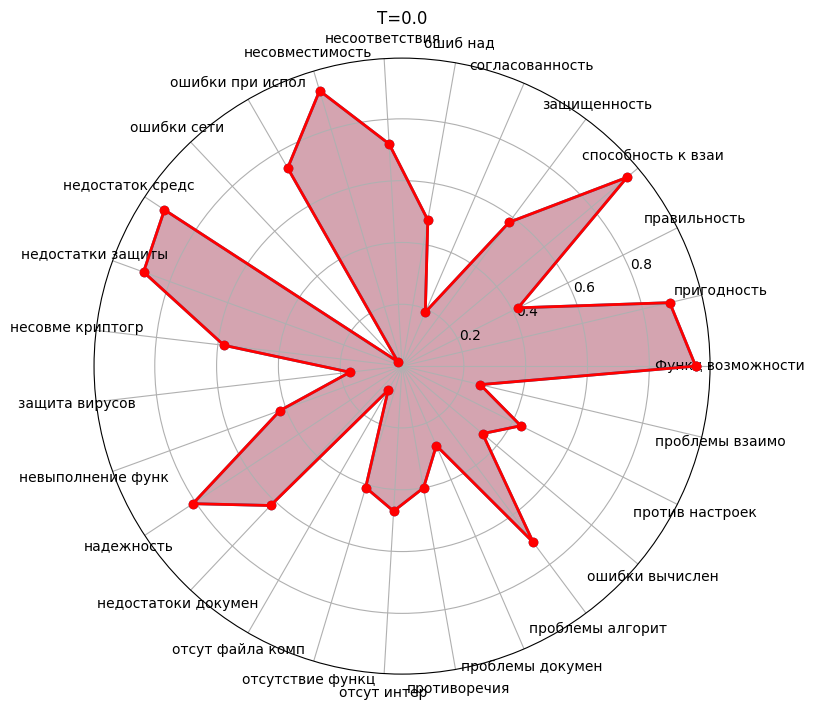
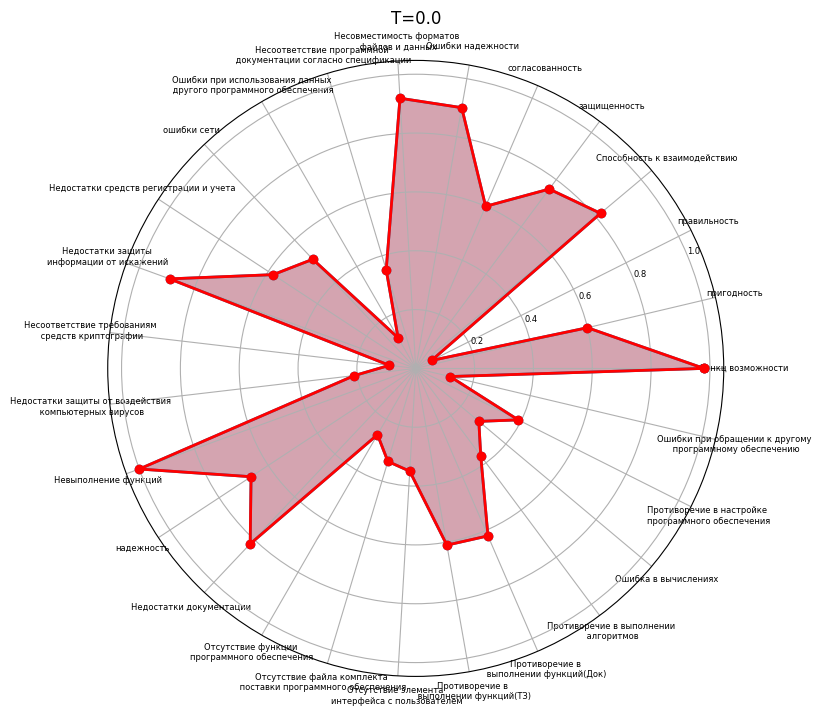
hope last commit

diff --git a/lab_ui.py b/lab_ui.py
@@ -1,5 +1,5 @@
 from PyQt5 import QtCore, QtGui, QtWidgets
-from PyQt5.QtGui import QPixmap
+from PyQt5.QtGui import QPixmap, QFont
 from PyQt5.QtWidgets import QMainWindow, QLabel, QVBoxLayout, QWidget
 
 import service as s
@@ -35,85 +35,112 @@ class Ui_MainWindow(object):
 
         self.label = QtWidgets.QLabel(self.centralwidget)
 
-        self.label.setGeometry(QtCore.QRect(10, 10, 171, 16))
+        self.label.setGeometry(QtCore.QRect(10, 10, 171, 20))
+        self.label.setFont(QFont('Arial', 9))
         self.label.setObjectName("label")
         self.label_2 = QtWidgets.QLabel(self.centralwidget)
         self.label_2.setGeometry(QtCore.QRect(10, 30, 171, 16))
+        self.label_2.setFont(QFont('Arial', 9))
         self.label_2.setObjectName("label_2")
         self.label_3 = QtWidgets.QLabel(self.centralwidget)
-        self.label_3.setGeometry(QtCore.QRect(10, 50, 171, 16))
+        self.label_3.setGeometry(QtCore.QRect(10, 50, 171, 20))
+        self.label_3.setFont(QFont('Arial', 9))
         self.label_3.setObjectName("label_3")
         self.label_4 = QtWidgets.QLabel(self.centralwidget)
-        self.label_4.setGeometry(QtCore.QRect(10, 70, 171, 16))
+        self.label_4.setGeometry(QtCore.QRect(10, 70, 171, 20))
+        self.label_4.setFont(QFont('Arial', 9))
         self.label_4.setObjectName("label_4")
         self.label_5 = QtWidgets.QLabel(self.centralwidget)
-        self.label_5.setGeometry(QtCore.QRect(10, 90, 171, 16))
+        self.label_5.setGeometry(QtCore.QRect(10, 90, 171, 20))
+        self.label_5.setFont(QFont('Arial', 9))
         self.label_5.setObjectName("label_5")
         self.label_6 = QtWidgets.QLabel(self.centralwidget)
-        self.label_6.setGeometry(QtCore.QRect(10, 110, 171, 16))
+        self.label_6.setGeometry(QtCore.QRect(10, 110, 171, 20))
+        self.label_6.setFont(QFont('Arial', 9))
         self.label_6.setObjectName("label_6")
         self.label_7 = QtWidgets.QLabel(self.centralwidget)
-        self.label_7.setGeometry(QtCore.QRect(10, 130, 171, 16))
+        self.label_7.setGeometry(QtCore.QRect(10, 130, 171, 20))
+        self.label_7.setFont(QFont('Arial', 9))
         self.label_7.setObjectName("label_7")
         self.label_8 = QtWidgets.QLabel(self.centralwidget)
-        self.label_8.setGeometry(QtCore.QRect(10, 170, 171, 16))
+        self.label_8.setGeometry(QtCore.QRect(10, 170, 171, 20))
+        self.label_8.setFont(QFont('Arial', 9))
         self.label_8.setObjectName("label_8")
         self.label_9 = QtWidgets.QLabel(self.centralwidget)
-        self.label_9.setGeometry(QtCore.QRect(10, 150, 171, 16))
+        self.label_9.setGeometry(QtCore.QRect(10, 150, 171, 20))
+        self.label_9.setFont(QFont('Arial', 9))
         self.label_9.setObjectName("label_9")
         self.label_10 = QtWidgets.QLabel(self.centralwidget)
-        self.label_10.setGeometry(QtCore.QRect(10, 190, 171, 16))
+        self.label_10.setGeometry(QtCore.QRect(10, 190, 171, 20))
+        self.label_10.setFont(QFont('Arial', 9))
         self.label_10.setObjectName("label_10")
         self.label_11 = QtWidgets.QLabel(self.centralwidget)
-        self.label_11.setGeometry(QtCore.QRect(10, 230, 171, 16))
+        self.label_11.setGeometry(QtCore.QRect(10, 230, 171, 20))
+        self.label_11.setFont(QFont('Arial', 9))
         self.label_11.setObjectName("label_11")
         self.label_12 = QtWidgets.QLabel(self.centralwidget)
-        self.label_12.setGeometry(QtCore.QRect(10, 210, 171, 16))
+        self.label_12.setGeometry(QtCore.QRect(10, 210, 171, 20))
+        self.label_12.setFont(QFont('Arial', 9))
         self.label_12.setObjectName("label_12")
         self.label_13 = QtWidgets.QLabel(self.centralwidget)
-        self.label_13.setGeometry(QtCore.QRect(10, 250, 171, 16))
+        self.label_13.setGeometry(QtCore.QRect(10, 250, 171, 20))
+        self.label_13.setFont(QFont('Arial', 9))
         self.label_13.setObjectName("label_13")
         self.label_14 = QtWidgets.QLabel(self.centralwidget)
-        self.label_14.setGeometry(QtCore.QRect(10, 270, 171, 16))
+        self.label_14.setGeometry(QtCore.QRect(10, 270, 171, 20))
+        self.label_14.setFont(QFont('Arial', 9))
         self.label_14.setObjectName("label_14")
         self.label_15 = QtWidgets.QLabel(self.centralwidget)
-        self.label_15.setGeometry(QtCore.QRect(10, 290, 171, 16))
+        self.label_15.setGeometry(QtCore.QRect(10, 290, 171, 20))
+        self.label_15.setFont(QFont('Arial', 9))
         self.label_15.setObjectName("label_15")
         self.label_16 = QtWidgets.QLabel(self.centralwidget)
-        self.label_16.setGeometry(QtCore.QRect(10, 310, 171, 16))
+        self.label_16.setGeometry(QtCore.QRect(10, 310, 171, 20))
+        self.label_16.setFont(QFont('Arial', 9))
         self.label_16.setObjectName("label_16")
         self.label_17 = QtWidgets.QLabel(self.centralwidget)
-        self.label_17.setGeometry(QtCore.QRect(10, 330, 171, 16))
+        self.label_17.setGeometry(QtCore.QRect(10, 330, 171, 20))
+        self.label_17.setFont(QFont('Arial', 9))
         self.label_17.setObjectName("label_17")
         self.label_18 = QtWidgets.QLabel(self.centralwidget)
-        self.label_18.setGeometry(QtCore.QRect(10, 350, 171, 16))
+        self.label_18.setGeometry(QtCore.QRect(10, 350, 171, 20))
+        self.label_18.setFont(QFont('Arial', 9))
         self.label_18.setObjectName("label_18")
         self.label_19 = QtWidgets.QLabel(self.centralwidget)
-        self.label_19.setGeometry(QtCore.QRect(10, 390, 171, 16))
+        self.label_19.setGeometry(QtCore.QRect(10, 390, 171, 20))
+        self.label_19.setFont(QFont('Arial', 9))
         self.label_19.setObjectName("label_19")
         self.label_20 = QtWidgets.QLabel(self.centralwidget)
-        self.label_20.setGeometry(QtCore.QRect(10, 370, 171, 16))
+        self.label_20.setGeometry(QtCore.QRect(10, 370, 171, 20))
+        self.label_20.setFont(QFont('Arial', 9))
         self.label_20.setObjectName("label_20")
         self.label_21 = QtWidgets.QLabel(self.centralwidget)
-        self.label_21.setGeometry(QtCore.QRect(10, 410, 171, 16))
+        self.label_21.setGeometry(QtCore.QRect(10, 410, 171, 20))
+        self.label_21.setFont(QFont('Arial', 9))
         self.label_21.setObjectName("label_21")
         self.label_22 = QtWidgets.QLabel(self.centralwidget)
-        self.label_22.setGeometry(QtCore.QRect(10, 430, 171, 16))
+        self.label_22.setGeometry(QtCore.QRect(10, 430, 171, 20))
+        self.label_22.setFont(QFont('Arial', 9))
         self.label_22.setObjectName("label_22")
         self.label_23 = QtWidgets.QLabel(self.centralwidget)
-        self.label_23.setGeometry(QtCore.QRect(10, 450, 171, 16))
+        self.label_23.setGeometry(QtCore.QRect(10, 450, 171, 20))
+        self.label_23.setFont(QFont('Arial', 9))
         self.label_23.setObjectName("label_23")
         self.label_24 = QtWidgets.QLabel(self.centralwidget)
-        self.label_24.setGeometry(QtCore.QRect(10, 470, 171, 16))
+        self.label_24.setGeometry(QtCore.QRect(10, 470, 171, 20))
+        self.label_24.setFont(QFont('Arial', 9))
         self.label_24.setObjectName("label_24")
         self.label_25 = QtWidgets.QLabel(self.centralwidget)
-        self.label_25.setGeometry(QtCore.QRect(10, 490, 171, 16))
+        self.label_25.setGeometry(QtCore.QRect(10, 490, 171, 20))
+        self.label_25.setFont(QFont('Arial', 9))
         self.label_25.setObjectName("label_25")
         self.label_26 = QtWidgets.QLabel(self.centralwidget)
-        self.label_26.setGeometry(QtCore.QRect(10, 530, 171, 16))
+        self.label_26.setGeometry(QtCore.QRect(10, 530, 171, 20))
+        self.label_26.setFont(QFont('Arial', 9))
         self.label_26.setObjectName("label_26")
         self.label_27 = QtWidgets.QLabel(self.centralwidget)
-        self.label_27.setGeometry(QtCore.QRect(10, 510, 171, 16))
+        self.label_27.setGeometry(QtCore.QRect(10, 510, 171, 20))
+        self.label_27.setFont(QFont('Arial', 9))
         self.label_27.setObjectName("label_27")
         self.doubleSpinBox = QtWidgets.QDoubleSpinBox(self.centralwidget)
         self.doubleSpinBox.setGeometry(QtCore.QRect(170, 10, 68, 24))
@@ -474,30 +501,30 @@ class Ui_MainWindow(object):
         self.label.setText(_translate("MainWindow", "u1 - Функц Возможности"))
         self.label_2.setText(_translate("MainWindow", "u7 - Пригодность"))
         self.label_3.setText(_translate("MainWindow", "u8 - Правильность"))
-        self.label_4.setText(_translate("MainWindow", "u9 - Способность к Взаи"))
+        self.label_4.setText(_translate("MainWindow", "u9 - Способность к взаимодействию"))
         self.label_5.setText(_translate("MainWindow", "u10 - Защищенность"))
-        self.label_6.setText(_translate("MainWindow", "u11 - Согласованность"))
-        self.label_7.setText(_translate("MainWindow", "u57 - Ошибки Надежн"))
-        self.label_8.setText(_translate("MainWindow", "u48 - Несовместимость"))
-        self.label_9.setText(_translate("MainWindow", "u35 - Нессответствия"))
-        self.label_10.setText(_translate("MainWindow", "u47 - Ошибки при испол"))
-        self.label_11.setText(_translate("MainWindow", "u50 - Недостаток средс"))
-        self.label_12.setText(_translate("MainWindow", "u46 - Ошибки Сети"))
-        self.label_13.setText(_translate("MainWindow", "u51 - Недостатки Защиты"))
-        self.label_14.setText(_translate("MainWindow", "u52 - Несовме Криптогр"))
-        self.label_15.setText(_translate("MainWindow", "u53 -Защита Вирусов"))
-        self.label_16.setText(_translate("MainWindow", "u34 - Невыполнение функ"))
+        self.label_6.setText(_translate("MainWindow", "u11 - Согласованность системы в целом"))
+        self.label_7.setText(_translate("MainWindow", "u57 - Ошибки надежности"))
+        self.label_8.setText(_translate("MainWindow", "u48 - Несовместимость форматов\n файлов и данных"))
+        self.label_9.setText(_translate("MainWindow", "u35 - Несоответствие программной\n документации согласно спецификации"))
+        self.label_10.setText(_translate("MainWindow", "u47 - Ошибки при использования данных\n другого программного обеспечения"))
+        self.label_11.setText(_translate("MainWindow", "u50 - Недостатки средств регистрации и учета"))
+        self.label_12.setText(_translate("MainWindow", "u46 - Ошибки сети"))
+        self.label_13.setText(_translate("MainWindow", "u51 - Недостатки защиты \nинформации от искажений"))
+        self.label_14.setText(_translate("MainWindow", "u52 - Несоответствие требованиям\n средств криптографии"))
+        self.label_15.setText(_translate("MainWindow", "u53 - Недостатки защиты от воздействия\n компьютерных вирусов"))
+        self.label_16.setText(_translate("MainWindow", "u34 - Невыполнение функций"))
         self.label_17.setText(_translate("MainWindow", "u2 - Надежность"))
-        self.label_18.setText(_translate("MainWindow", "u36 - Недостки Докумен"))
-        self.label_19.setText(_translate("MainWindow", "u38 - Отсутствие функц"))
-        self.label_20.setText(_translate("MainWindow", "u37 - Отсут файла комп"))
-        self.label_21.setText(_translate("MainWindow", "u39 - Отссутсвие интер"))
-        self.label_22.setText(_translate("MainWindow", "u40 - Противоречия"))
-        self.label_23.setText(_translate("MainWindow", "u41 - Проблемы Докумен"))
-        self.label_24.setText(_translate("MainWindow", "u42 - Проблемы Алгорит"))
-        self.label_25.setText(_translate("MainWindow", "u43 - Ошибки Вычислен"))
-        self.label_26.setText(_translate("MainWindow", "u45 - Проблемы взаимо"))
-        self.label_27.setText(_translate("MainWindow", "u44 - Против настроек"))
+        self.label_18.setText(_translate("MainWindow", "u36 - Недостатки документации"))
+        self.label_19.setText(_translate("MainWindow", "u38 - Отсутствие функции \nпрограммного обеспечения"))
+        self.label_20.setText(_translate("MainWindow", "u37 - Отсутствие файла комплекта\n поставки программного обеспечения"))
+        self.label_21.setText(_translate("MainWindow", "u39 - Отсутствие элемента \nинтерфейса с пользователем"))
+        self.label_22.setText(_translate("MainWindow", "u40 - Противоречие в\n выполнении функций(Док)"))
+        self.label_23.setText(_translate("MainWindow", "u41 - Противоречие в\n выполнении функций(ТЗ)"))
+        self.label_24.setText(_translate("MainWindow", "u42 - Противоречие в выполнении\n алгоритмов"))
+        self.label_25.setText(_translate("MainWindow", "u43 - Ошибка в вычислениях"))
+        self.label_26.setText(_translate("MainWindow", "u45 - Ошибки при обращении к другому\n программному обеспечению"))
+        self.label_27.setText(_translate("MainWindow", "u44 - Противоречие в настройке \nпрограммного обеспечения"))
         self.label_28.setText(_translate("MainWindow", "Уравнения"))
         self.label_29.setText(_translate("MainWindow", "="))
         self.label_F1.setText('F')

diff --git a/service.py b/service.py
@@ -3,7 +3,33 @@ import numpy as np
 import matplotlib.pyplot as plt
 from scipy.integrate import odeint
 
-labelMap = {'U1': 'Функц возможности','U2': 'пригодность','U3': 'правильность','U4': 'способность к взаи','U5': 'защищенность','U6': 'согласованность','U7': 'ошиб над','U8': 'несоответствия','U9': 'несовместимость','U10': 'ошибки при испол','U11': 'ошибки сети','U12': 'недостаток средс','U13': 'недостатки защиты','U14': 'несовме криптогр','U15': 'защита вирусов','U16': 'невыполнение функ','U17': 'надежность','U18': 'недостатоки докумен','U19': 'отсут файла комп','U20': 'отсутствие функц','U21': 'отсут интер','U22': 'противоречия','U23': 'проблемы докумен','U24': 'проблемы алгорит','U25': 'ошибки вычислен','U26': 'против настроек','U27': 'проблемы взаимо'}
+labelMap = {'U1': 'Функц возможности',
+            'U2': 'пригодность',
+            'U3': 'правильность',
+            'U4': 'Способность к взаимодействию',
+            'U5': 'защищенность',
+            'U6': 'согласованность',
+            'U7': 'Ошибки надежности',
+            'U8': 'Несовместимость форматов\n файлов и данных',
+            'U9': 'Несоответствие программной\n документации согласно спецификации',
+            'U10': 'Ошибки при использования данных\n другого программного обеспечения',
+            'U11': 'ошибки сети',
+            'U12': 'Недостатки средств регистрации и учета',
+            'U13': 'Недостатки защиты \nинформации от искажений',
+            'U14': 'Несоответствие требованиям\n средств криптографии',
+            'U15': 'Недостатки защиты от воздействия\n компьютерных вирусов',
+            'U16': 'Невыполнение функций',
+            'U17': 'надежность',
+            'U18': 'Недостатки документации',
+            'U19': 'Отсутствие функции \nпрограммного обеспечения',
+            'U20': 'Отсутствие файла комплекта\n поставки программного обеспечения',
+            'U21': 'Отсутствие элемента \nинтерфейса с пользователем',
+            'U22': 'Противоречие в\n выполнении функций(ТЗ)',
+            'U23': 'Противоречие в\n выполнении функций(Док)',
+            'U24': 'Противоречие в выполнении\n алгоритмов',
+            'U25': 'Ошибка в вычислениях',
+            'U26': 'Противоречие в настройке \nпрограммного обеспечения',
+            'U27': 'Ошибки при обращении к другому\n программному обеспечению'}
 
 class CharacteristicFromExcel:
     def __init__(self, *args, **kwargs):
@@ -109,7 +135,7 @@ class CharacteristicFromExcel:
         plt.ylim([0, 1])
         plt.xlabel('время')
         plt.ylabel('значение характеристик')
-        plt.legend(legend_labels, bbox_to_anchor=(1, 1))
+        plt.legend(legend_labels, bbox_to_anchor=(1, 1),prop={"size":7})
         plt.show()
         fig.tight_layout()
         fig.savefig('funcs.png')
@@ -146,6 +172,7 @@ def make_radar_chart(name, filename, initialStats, stats, attribute_labels):
     ax.plot(angles, initialStats, 'o-', linewidth=2, color='r')
     ax.fill(angles, initialStats, alpha=0.25, color='r')
     ax.set_thetagrids(angles[:-1] * 180 / np.pi, labels)
+    ax.tick_params(labelsize=6)
     ax.set_title(name)
     ax.grid(True)
     plt.tight_layout
